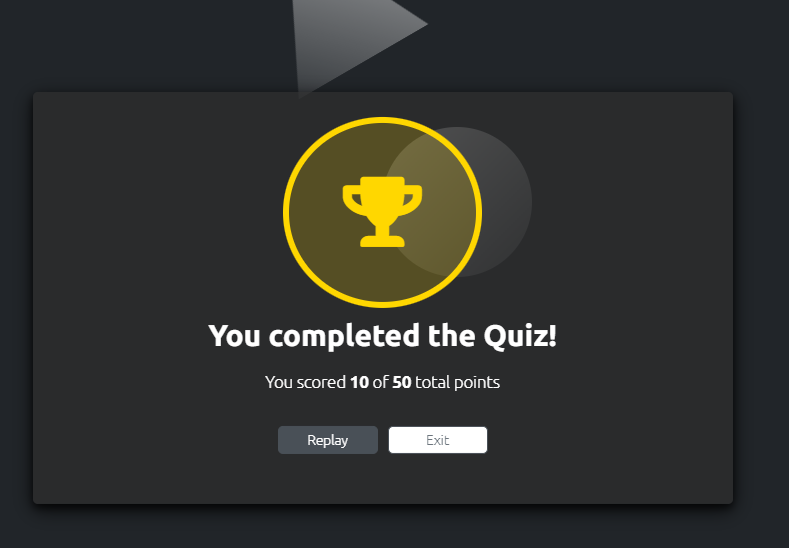
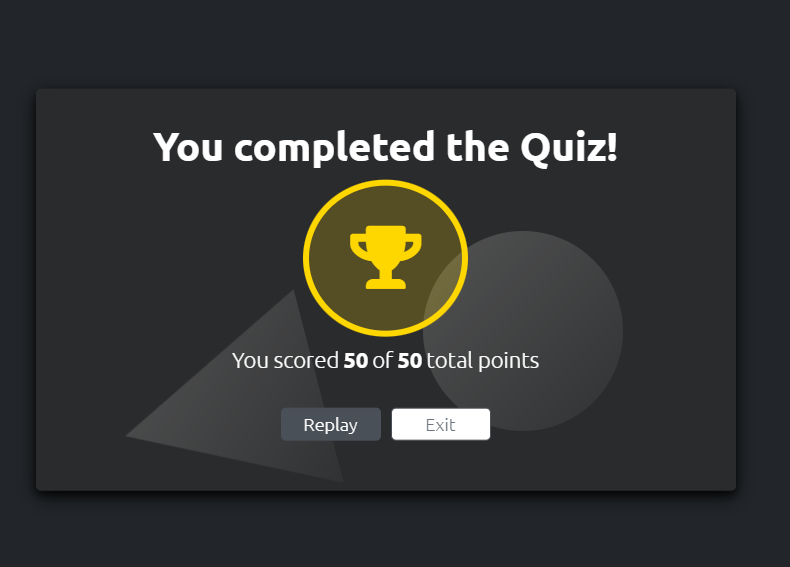
replaced images to be the latest image of results box scores. Updated it on README as well

Changed region(s): [[0.1521, 0.2172, 0.7909, 0.8376], [0.0608, 0.8686, 0.943, 0.9307], [0.365, 0.0, 0.5475, 0.1551]]

diff --git a/README.md b/README.md
@@ -129,7 +129,7 @@ All variable colours are as follows:
 &nbsp;
 
 ### Results
-![Results light Theme Trophy](assets/images/ligth%20theme%20results%20box.png)
+![Results light Theme Trophy](assets/images/light%20theme%20results%20box.png)
 ![Results Dark Theme Trophy](assets/images/dark%20theme%20results%20box.png)
 ![Results light ThemeHalf Star](assets/images/light%20theme%20results%20box%20half%20star.png)
 ![Results Dark Theme Half Star](assets/images/dark%20theme%20results%20box%20half%20star.png)
